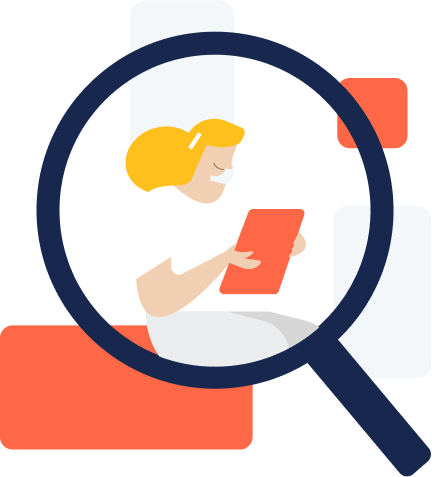
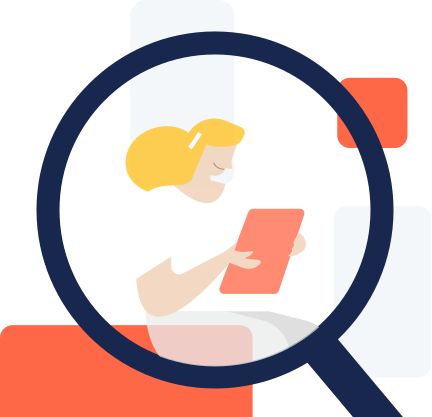
fix css service header component

diff --git a/src/components/service-header/ServiceHeader.module.scss b/src/components/service-header/ServiceHeader.module.scss
@@ -4,7 +4,7 @@
   background: #ffbe16;
 
   :global .service-header__inner {
-    padding: 20px 10%;
+    padding: 0 10%;
     width: 100%;
     overflow: hidden;
     display: flex;
@@ -15,33 +15,39 @@
       justify-content: center;
       align-items: center;
       flex-direction: column;
+
+      @include screen-down(lg) {
+        margin-bottom: 36px;
+      }
     }
 
     &__right {
       display: flex;
       align-items: center;
       justify-content: center;
-      position: relative;
-      padding-bottom: 30%;
-      transform: translateY(40px);
-
-      &.payroll-compliances-service-container {
-        padding-top: 20px;
-        transform: translateY(20px);
-      }
-
-      &.management-service-container {
-        padding-top: 20px;
-        transform: translateY(10px);
-      }
-
-      &.full-suite-project-service-container {
-        padding-bottom: 25%;
-        transform: translateY(45px);
-      }
+      padding: 20px 0;
+      max-height: 440px;
+      transform: translateY(20px);
 
       @include screen-down(lg) {
-        padding-bottom: 70%;
+        margin-bottom: 60px;
+      }
+
+      &.payroll-compliances-service-container,
+      &.management-service-container {
+        transform: none;
+      }
+
+      &.calculator-service-container {
+        transform: none;
+        margin-top: 85px;
+        margin-bottom: 25px;
+        padding: 0;
+
+        @include screen-down(lg) {
+          margin-top: 60px;
+          margin-bottom: 45px;
+        }
       }
     }
   }

diff --git a/src/config/services.tsx b/src/config/services.tsx
@@ -17,8 +17,8 @@ export const HEADER_CONFIG = [
       subTitle: 'Utilise your preferred talent for your projects.',
       imageSource: '/images/service/ServiceTheme1.png',
       className: 'talent-acquisition-service-container',
-      width: 310,
-      height: 299,
+      imgWidth: 432,
+      imgHeight: 417,
     }),
   },
   {
@@ -28,8 +28,8 @@ export const HEADER_CONFIG = [
       subTitle: 'Run your remote team and leave the HR aspects to us.',
       imageSource: '/images/service/ServiceTheme2.png',
       className: 'management-service-container',
-      width: 310,
-      height: 299,
+      imgWidth: 361,
+      imgHeight: 394,
     }),
   },
   {
@@ -39,8 +39,8 @@ export const HEADER_CONFIG = [
       subTitle: 'Experience a seamless contracting and payroll process.',
       imageSource: '/images/service/ServiceTheme3.png',
       className: 'payroll-compliances-service-container',
-      width: 310,
-      height: 299,
+      imgWidth: 355,
+      imgHeight: 406,
     }),
   },
   {
@@ -51,8 +51,8 @@ export const HEADER_CONFIG = [
         'Enjoy carefully curated management for your project from start to finish.',
       imageSource: '/images/service/ServiceTheme4.png',
       className: 'full-suite-project-service-container',
-      width: 310,
-      height: 299,
+      imgWidth: 518,
+      imgHeight: 319,
     }),
   },
 ]

diff --git a/src/components/service-header/index.tsx b/src/components/service-header/index.tsx
@@ -8,12 +8,20 @@ import { ServiceHeaderProps } from '@/types/services'
 
 import styles from './ServiceHeader.module.scss'
 
-const ServiceHeader = ({
-  title = '',
-  subTitle = '',
-  imageSource = '',
-  className = '',
-}: ServiceHeaderProps): React.ReactElement => {
+interface IProps {
+  headerConfig: ServiceHeaderProps
+}
+
+const ServiceHeader = ({ headerConfig }: IProps): React.ReactElement => {
+  const {
+    title = '',
+    subTitle = '',
+    imageSource = '',
+    imgWidth = 0,
+    imgHeight = 0,
+    className: imgClassName = '',
+  } = headerConfig || {}
+
   return (
     <div className={styles['service-header-container']}>
       <div className='service-header__inner row'>
@@ -26,15 +34,15 @@ const ServiceHeader = ({
 
         <div
           className={clsx(
-            className,
+            imgClassName,
             'service-header__inner__right col-xs-12 col-lg-4',
           )}
         >
           <Image
-            alt=''
+            alt={title}
             src={imageSource}
-            layout='fill'
-            objectFit='contain'
+            width={imgWidth}
+            height={imgHeight}
             priority
             quality={100}
           />

diff --git a/src/sections/resources/calculator/index.tsx b/src/sections/resources/calculator/index.tsx
@@ -6,6 +6,8 @@ import Image from 'next/image'
 
 import clsx from 'clsx'
 
+import { CALCULATOR_HEADER_DATA } from '@/config/resources'
+
 import ServiceHeader from '@/components/service-header'
 
 import SlickCalculator from '@/sections/resources/calculator/slick-calculator'
@@ -71,11 +73,7 @@ const Calculator = (): React.ReactElement => {
     <div className={clsx(styles['calculator-contain'])}>
       <div className='calculator-section'>
         <div className='calculator-section__header'>
-          <ServiceHeader
-            title='Salary calculator'
-            subTitle="Try our live-quote calculator to evaluate the approximate costs for the talent you're looking to hire or for the estimated income you'll receive while working with Fetch."
-            imageSource='/images/resources/calculator/calculator.png'
-          />
+          <ServiceHeader headerConfig={CALCULATOR_HEADER_DATA} />
         </div>
 
         <form onSubmit={handleSubmit(onSubmit)}>

diff --git a/src/config/resources.tsx b/src/config/resources.tsx
@@ -1,9 +1,20 @@
 import { CSTabHeaderProps, CaseStudiesTypeProps } from '@/types/resources'
+import { ServiceHeaderProps } from '@/types/services'
 
 export const CASE_STUDIES_TYPE: CaseStudiesTypeProps = {
   ACCORPLUS: 'accorplus',
   TOKENIZE_EXCHANGE: 'tokenizeexchange',
   CHART_DESK: 'chartdesk',
+}
+
+export const CALCULATOR_HEADER_DATA: ServiceHeaderProps = {
+  title: 'Salary calculator',
+  subTitle:
+    "Try our live-quote calculator to evaluate the approximate costs for the talent you're looking to hire or for the estimated income you'll receive while working with Fetch.",
+  imageSource: '/images/resources/calculator/calculator.png',
+  imgWidth: 272,
+  imgHeight: 364,
+  className: 'calculator-service-container',
 }
 
 export const CACULATOR_SLICK_DATA = {

diff --git a/src/sections/services/index.tsx b/src/sections/services/index.tsx
@@ -21,12 +21,7 @@ const ServiceSections = ({
   header,
   serviceBody,
 }: ServiceProps): React.ReactElement => {
-  const {
-    title = '',
-    subTitle = '',
-    imageSource = '',
-    className: imgClassName = '',
-  } = header || {}
+  const { title = '' } = header || {}
 
   useEffect(() => {
     const onScroll = () => {
@@ -104,12 +99,7 @@ const ServiceSections = ({
 
   return (
     <>
-      <ServiceHeader
-        title={title}
-        subTitle={subTitle}
-        imageSource={imageSource}
-        className={imgClassName}
-      />
+      <ServiceHeader headerConfig={header} />
 
       <div
         className={clsx(styles['service-body-container'], 'service-body row')}

diff --git a/src/types/services.ts b/src/types/services.ts
@@ -3,6 +3,8 @@ export interface ServiceHeaderProps {
   subTitle: string
   imageSource: string
   className?: string
+  imgWidth: number
+  imgHeight: number
 }
 
 export interface ServiceBodyProps {
